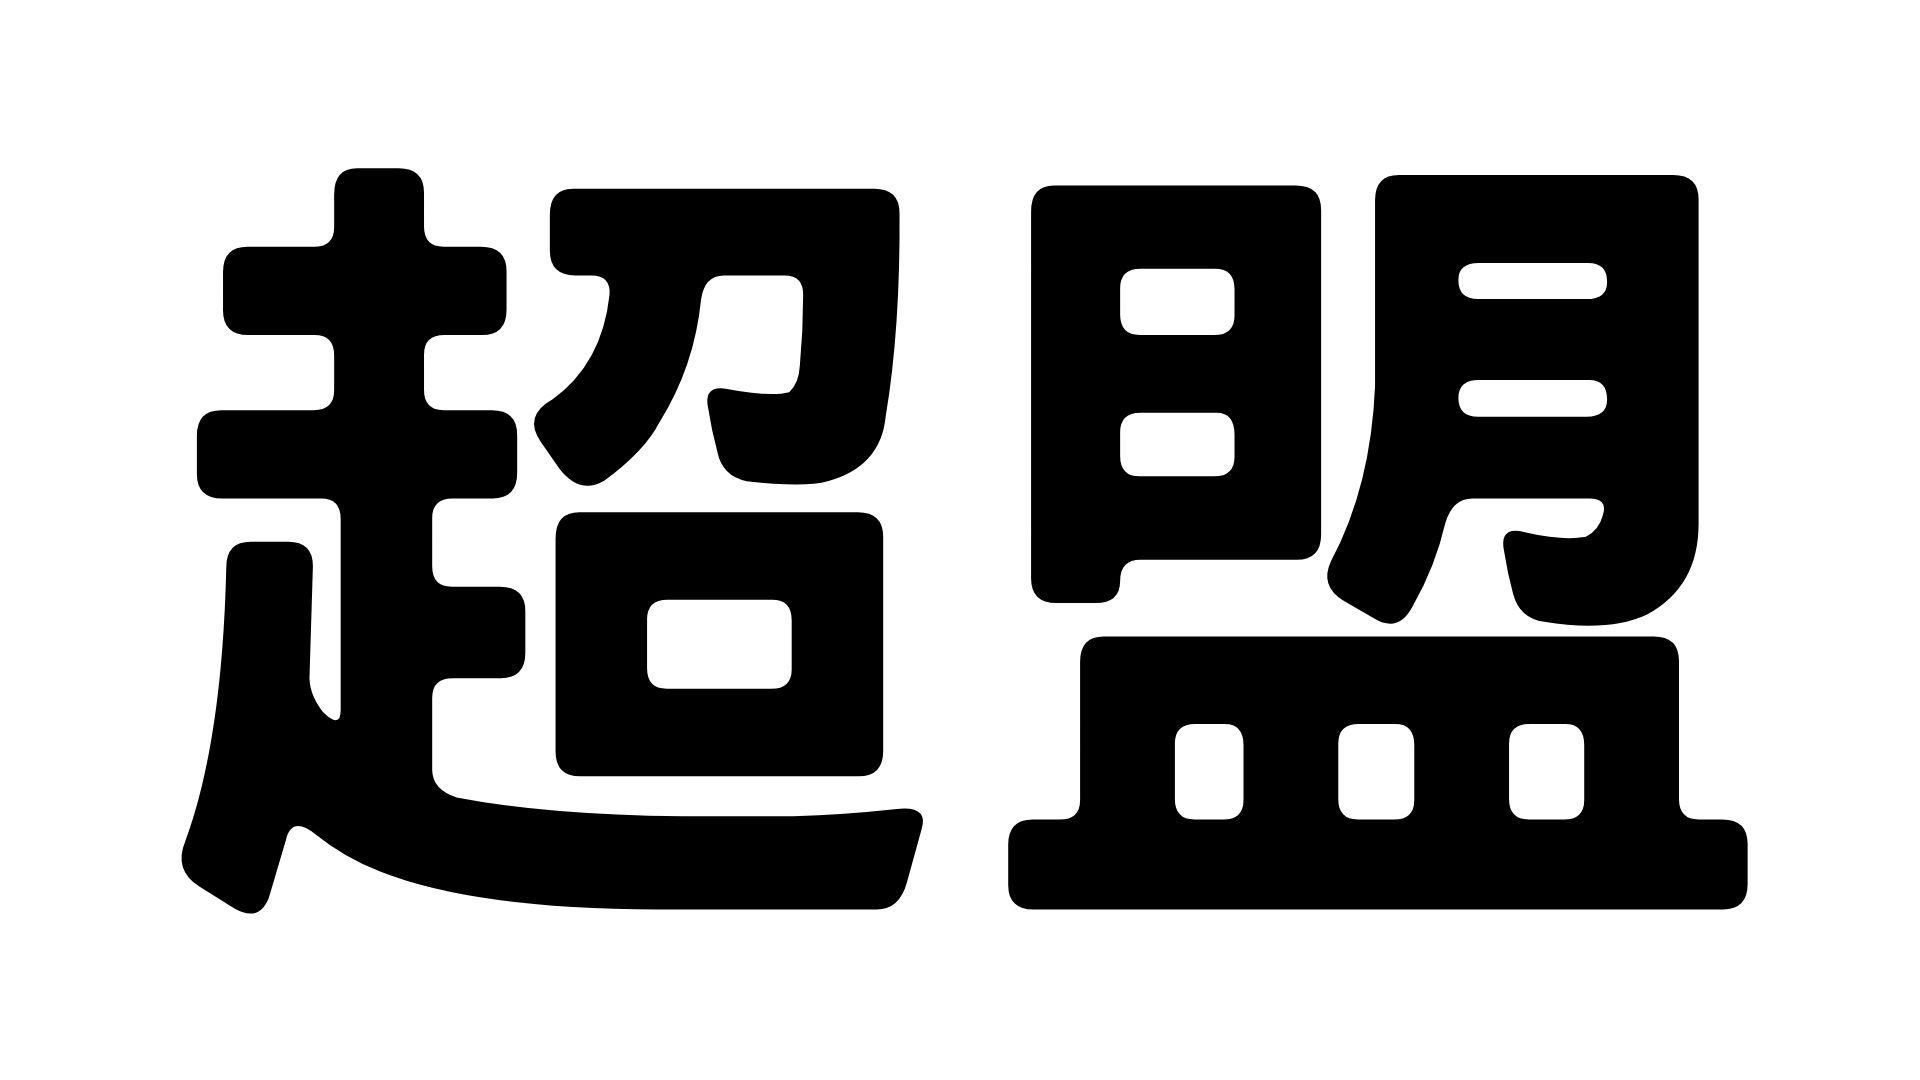
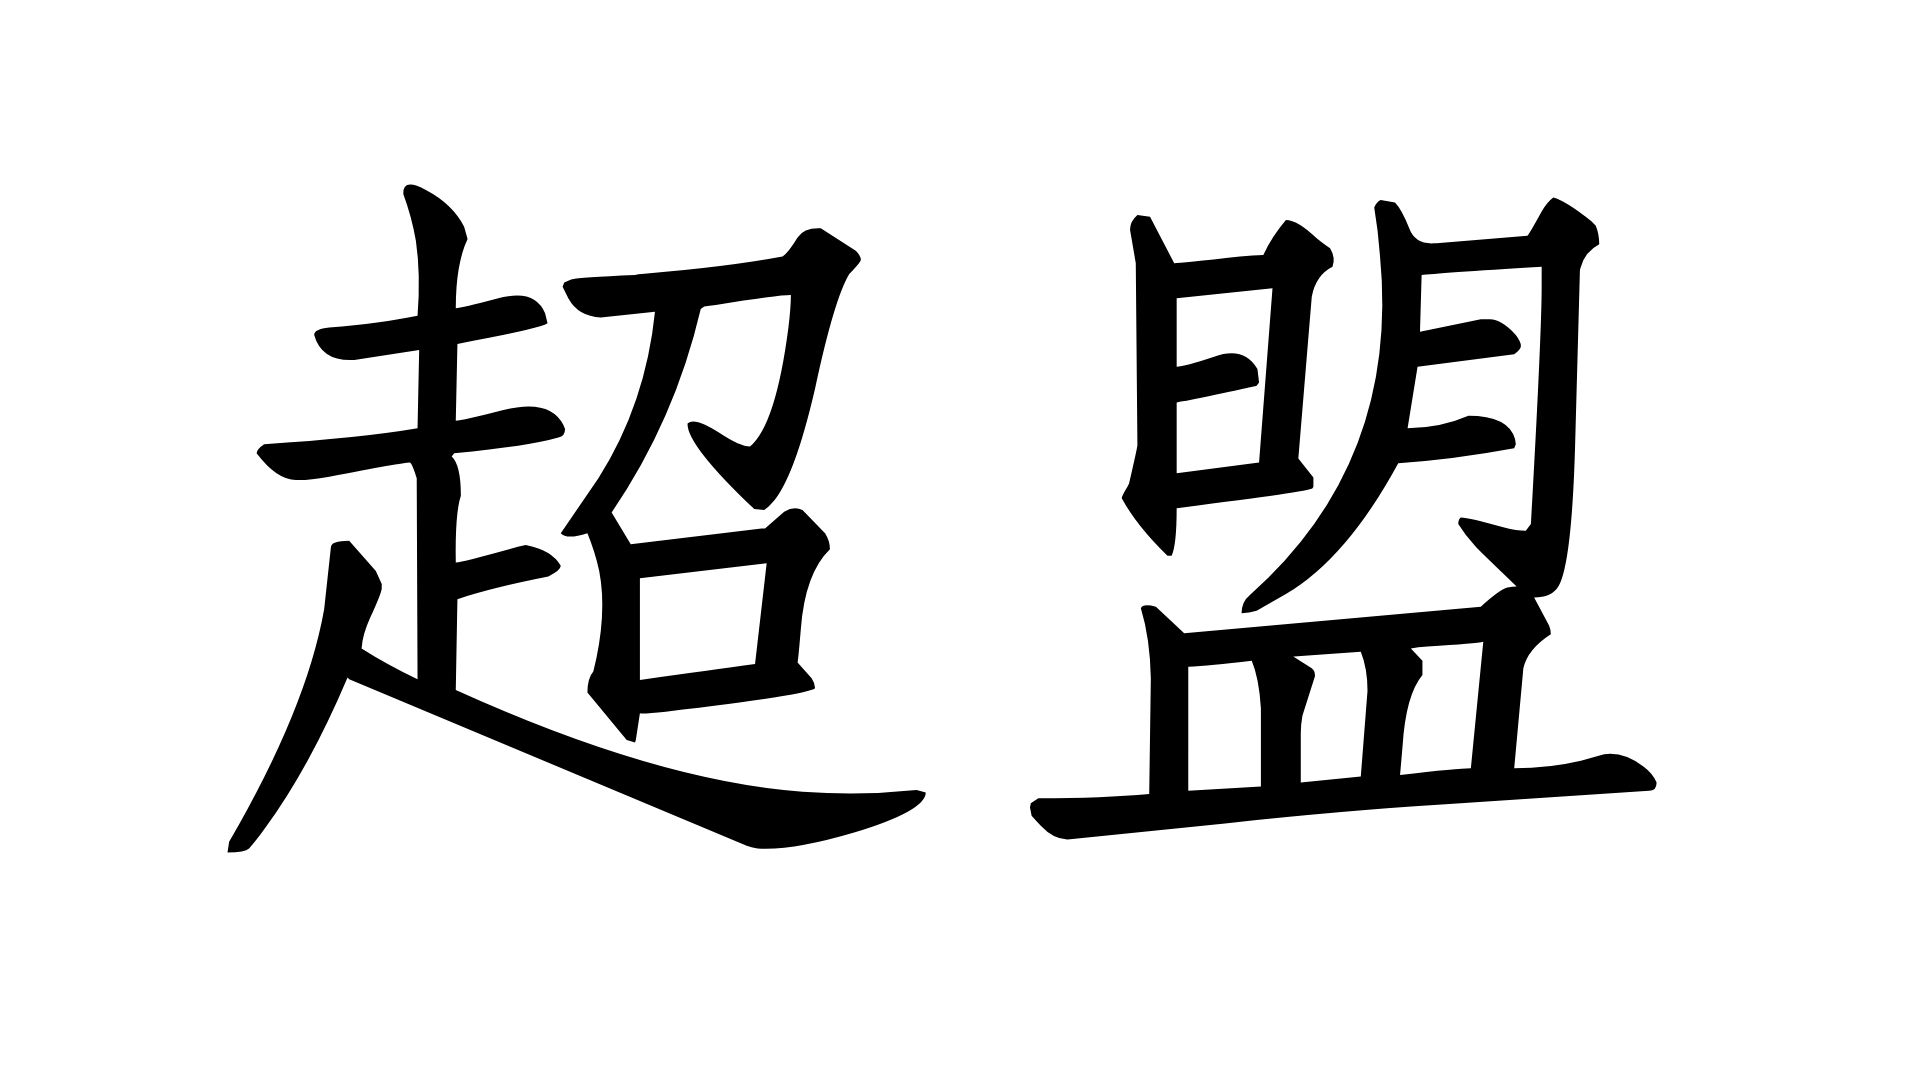
jpg

Changed region(s): [[0.0938, 0.1528, 0.9375, 0.8556]]

diff --git a/web/flutter_service_worker.js b/web/flutter_service_worker.js
@@ -3,7 +3,7 @@ const MANIFEST = 'flutter-app-manifest';
 const TEMP = 'flutter-temp-cache';
 const CACHE_NAME = 'flutter-app-cache';
 
-const RESOURCES = {"app.jpg": "e1094200282a35cc3be12c55e9c8aefe",
+const RESOURCES = {"app.jpg": "f87fc3fc2069b167c3dc36ccf3beea74",
 "assets/AssetManifest.bin": "f76be3e539093cb201526bcaf47af55c",
 "assets/AssetManifest.bin.json": "d98d7d61b0995616db3802652c1fbd55",
 "assets/assets/fonts/noto_bold.ttf": "41beaa39c6d0b9fa6b3cf304cea151f5",
@@ -26,18 +26,18 @@ const RESOURCES = {"app.jpg": "e1094200282a35cc3be12c55e9c8aefe",
 "canvaskit/skwasm_heavy.js": "740d43a6b8240ef9e23eed8c48840da4",
 "canvaskit/skwasm_heavy.js.symbols": "0755b4fb399918388d71b59ad390b055",
 "canvaskit/skwasm_heavy.wasm": "b0be7910760d205ea4e011458df6ee01",
-"favicon.png": "5dcef449791fa27946b3d35ad8803796",
+"favicon.png": "a6322277634faafe239360dbe764e4aa",
 "flutter.js": "24bc71911b75b5f8135c949e27a2984e",
-"flutter_bootstrap.js": "1c2878a33f0158e6a9650d244be62822",
+"flutter_bootstrap.js": "a561fb1ef3631e3d9a7f2736bd984c77",
 "flutter_custom_config.json": "a55d1ebe6004825445694e1a0cbdd4e8",
-"icons/Icon-192.png": "ac9a721a12bbc803b44f645561ecb1e1",
-"icons/Icon-512.png": "96e752610906ba2a93c65f8abe1645f1",
-"icons/Icon-maskable-192.png": "c457ef57daa1d16f64b27b786ec2ea3c",
-"icons/Icon-maskable-512.png": "301a7604d45b3e739efc881eb04896ea",
-"index.html": "94176b57b5d3d582939ad9ed176b353a",
-"/": "94176b57b5d3d582939ad9ed176b353a",
+"icons/Icon-192.png": "3c62e9cd51c064969c763c8260e6b024",
+"icons/Icon-512.png": "14f2fdf0259954c2390b8a93c8e657ea",
+"icons/Icon-maskable-192.png": "3c62e9cd51c064969c763c8260e6b024",
+"icons/Icon-maskable-512.png": "14f2fdf0259954c2390b8a93c8e657ea",
+"index.html": "e304a3563967191b1cde3d6d7ba4d713",
+"/": "e304a3563967191b1cde3d6d7ba4d713",
 "main.dart.js": "d31e2805553a6ceec3ad2df5fb61842a",
-"manifest.json": "640179cfdfb63c82c52e186105c93c5d",
+"manifest.json": "1ae3d37fe3df8f38aa1686aa2b9ba5f7",
 "version.json": "7e2db74196f938a274cfaf2f17623771"};
 // The application shell files that are downloaded before a service worker can
 // start.

diff --git a/web/flutter_bootstrap.js b/web/flutter_bootstrap.js
@@ -38,6 +38,6 @@ _flutter.buildConfig = {"engineRevision":"b5990e5ccc5e325fd24f0746e7d6689bbebc7c
 
 _flutter.loader.load({
   serviceWorkerSettings: {
-    serviceWorkerVersion: "2480248852"
+    serviceWorkerVersion: "2225419457"
   }
 });

diff --git a/web/index.html b/web/index.html
@@ -14,7 +14,7 @@
   
   <link rel="apple-touch-icon" href="app.jpg?v=2">
 
-  <link rel="icon" type="image/jpeg" href="app.jpg"/>
+  <link rel="icon" type="image/jpeg" href="app.jpg?v=2"/>
 
   <title>超盟工程</title>
   
